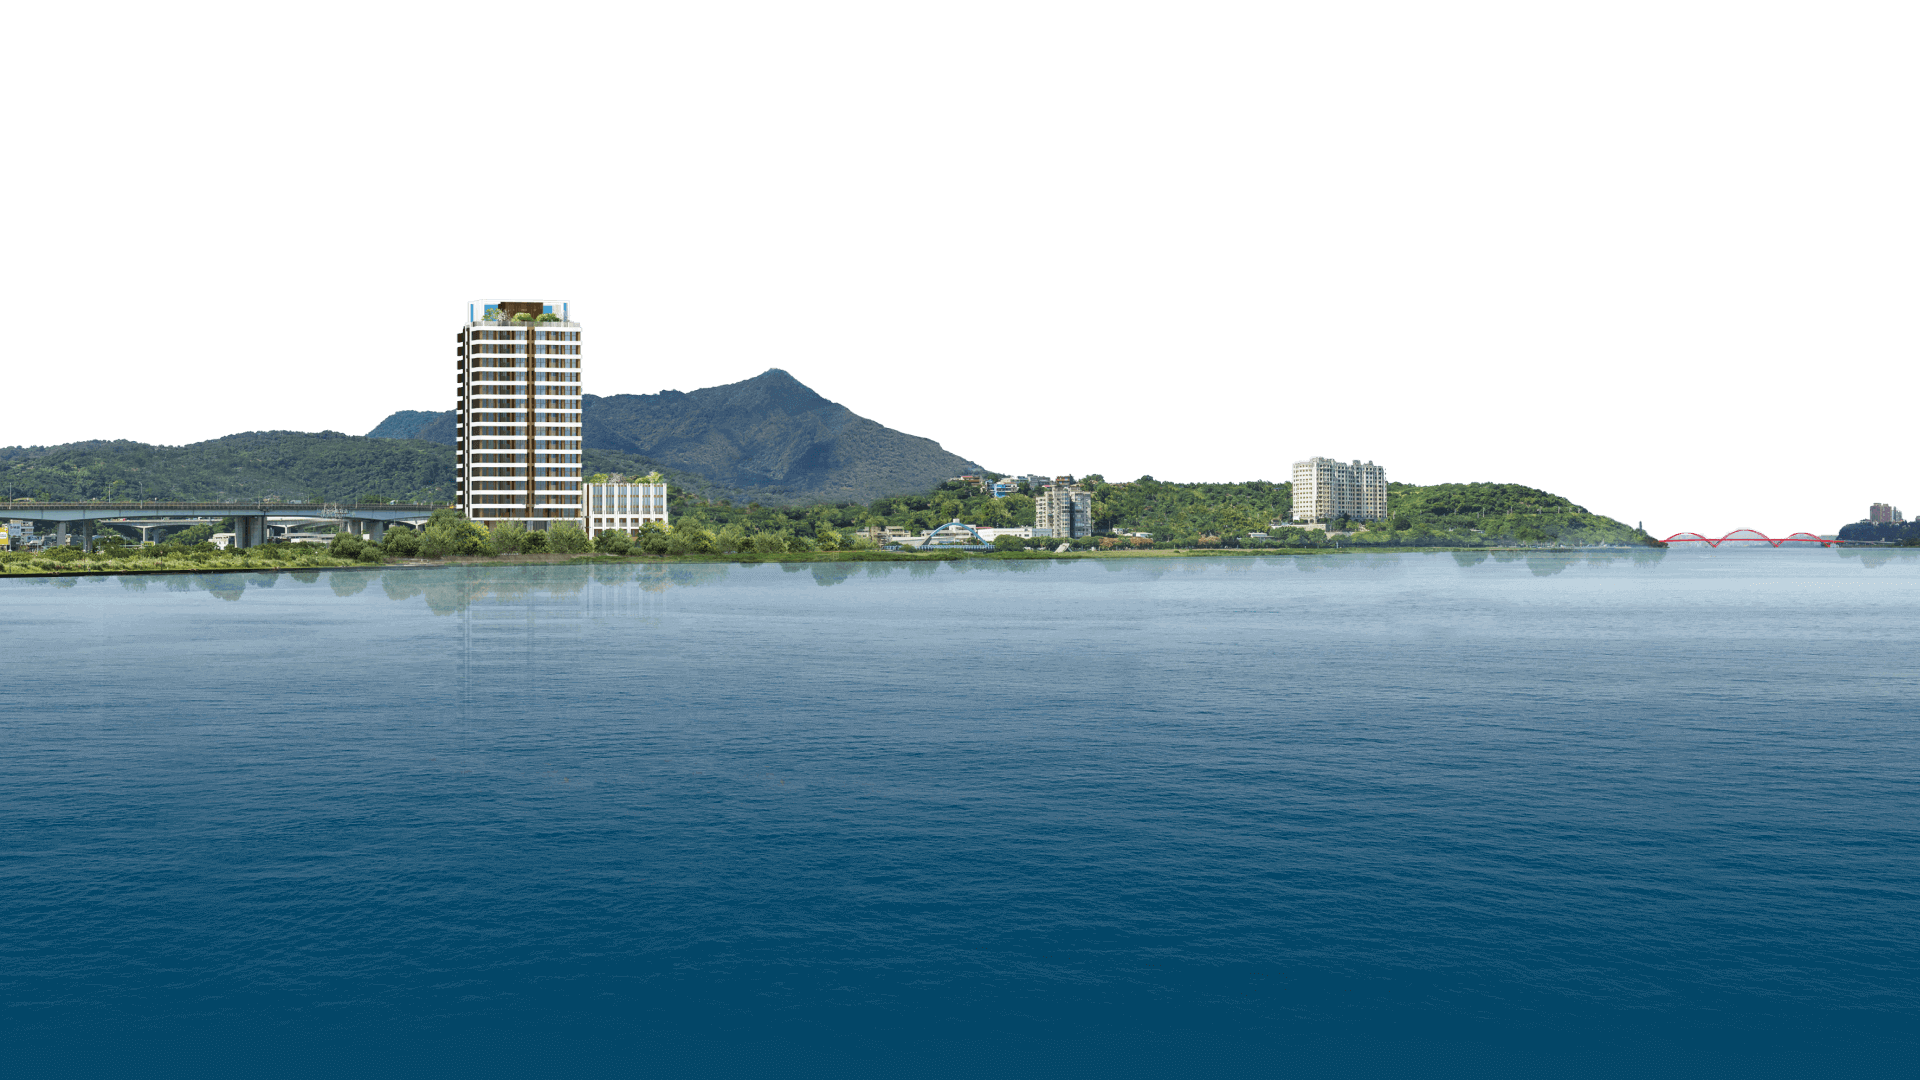
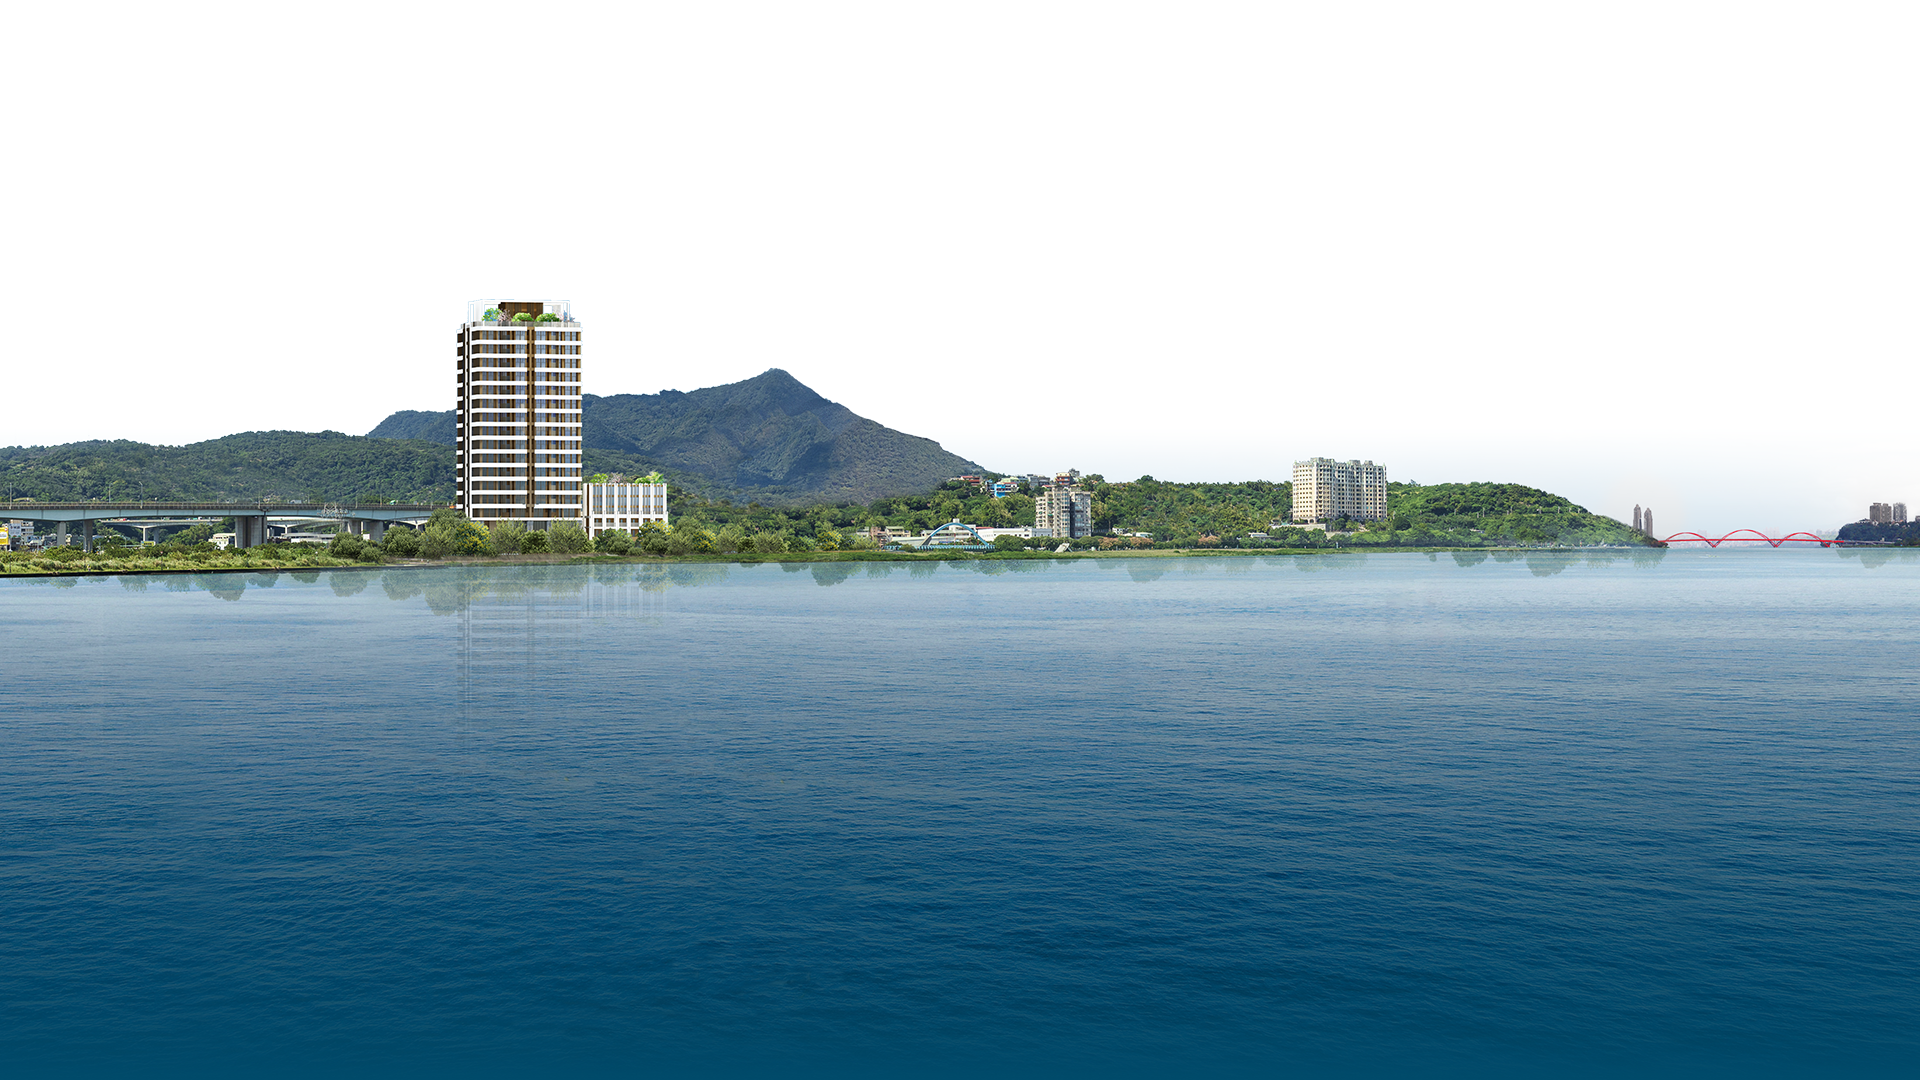
wv

diff --git a/src/projects/wv/s1.vue b/src/projects/wv/s1.vue
@@ -1,5 +1,8 @@
 <template>
   <div class="s1" id="scene">
+    <div class="cloud"></div>
+    <div class="bg"></div>
+    <div class="cloud2"></div>
     <p class="caption" data-aos="fade">3D外觀合成圖</p>
     <div class="title" v-if="!isMobile">
       <div class="left">
@@ -12,10 +15,10 @@
         />
       </div>
       <div class="right">
-        <div class="t1">
+        <div class="t1" data-aos="zoom-in" data-aos-offset="150">
           蘆洲捷運站5分鐘│水岸豪景2-3房｜總價998萬元起<span>須另購車位</span>
         </div>
-        <div class="t2">
+        <div class="t2" data-aos="zoom-in" data-aos-delay="300">
           在大台北，只有一種美，始終不負期待，那是直面雙河，270°水天相連的豪景氣魄，是收藏新北大都會公園424公頃綠帶壯闊胸懷，是捷運蘆洲站5分鐘，F06站散步到的優雅節奏，是以最輕盈的心情，成就身心開闊的優沃姿態。在大台北，有一種實現你所有嚮往的水岸生活，叫做『伴月灣』
         </div>
       </div>
@@ -55,8 +58,6 @@
         叫做『伴月灣』
       </div>
     </div>
-    <div class="bg"></div>
-    <div class="cloud"></div>
     <img
       class="arrow"
       v-if="!isMobile"
@@ -71,8 +72,11 @@
 @import "@/assets/style/function.scss";
 /* 螢幕尺寸標準 */
 .s1 {
-  width: size(1920);
-  height: size(1080);
+  width: 100%;
+  height:100vh;
+  min-height: size(900);
+  max-height: size(1080);
+  background: linear-gradient(to bottom, rgba(50,146,218,1) 0%,rgba(218,239,255,1) 50%,rgba(218,239,255,1) 100%);
   .arrow {
     position: absolute;
     z-index: 10;
@@ -124,6 +128,7 @@
         font-family: "Noto Sans TC";
         line-height: 1.5;
         letter-spacing: 0.2em;
+        font-weight:300;
       }
     }
   }
@@ -133,30 +138,62 @@
     position: absolute;
     left: 0;
     bottom: 0;
-    background-image: url("~@/projects/wv/s1/bg.png");
     background-size: cover;
-    z-index: 1;
-  }
-  .cloud {
-    width: size(4096);
-    height: size(586);
-    position: absolute;
-    left: -#{size(400)};
-    top: 0;
-    background-image: url("~@/projects/wv/s1/cloud.jpg");
+    &::after,
+    &::before{
+      content: "";
+      display: block;
+    width: 100%;
+    height: 50%;
     background-size: cover;
-    z-index: 0;
-    animation: move 60s alternate-reverse infinite linear;
 
-    @keyframes move {
-      from {
-        transform: translateX(0%);
-      }
-      to {
-        transform: translateX(-20%);
-      }
+    }
+    &::before{
+    background-image: url("~@/projects/wv/s1/bg_01.png");
+    background-position: 50% 100%;}
+    &::after{
+    background-image: url("~@/projects/wv/s1/bg_02.jpg");
+    background-position: 50% 0%;}
+
+  }
+  .cloud,
+  .cloud2{
+    width:size(2250);
+    height: 50%;
+    position: absolute;
+    left: 0;
+    top: 0;
+    background-image: url("~@/projects/wv/s1/cloud.png");
+    background-position: 50% 100%;
+    background-size: 100% auto;
+    animation:move 20s linear infinite;
+
+    &::after{
+      content: "";
+      display: block;
+      position: absolute;
+      width: 100%;
+      height: 100%;
+    background-image: url("~@/projects/wv/s1/cloud.png");
+    background-position: 50% 100%;
+      left: 100%;top: 0;
     }
   }
+  .cloud2 {
+    background-image: url("~@/projects/wv/s1/cloud2.png");
+    background-position: 50% 0%;
+    top: 55%;
+
+    &::after{
+    background-image: url("~@/projects/wv/s1/cloud2.png");
+    background-position: 50% 0%;
+    }
+  }
+    @keyframes move {
+      to {
+        transform: translateX(-100%);
+      }
+    }
 }
 /* 平板尺寸 */
 @media only screen and (min-device-width: 768px) and (max-device-width: 1024px) {
